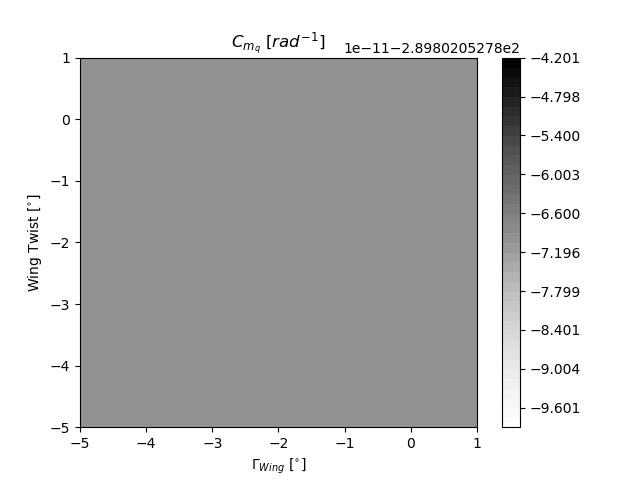
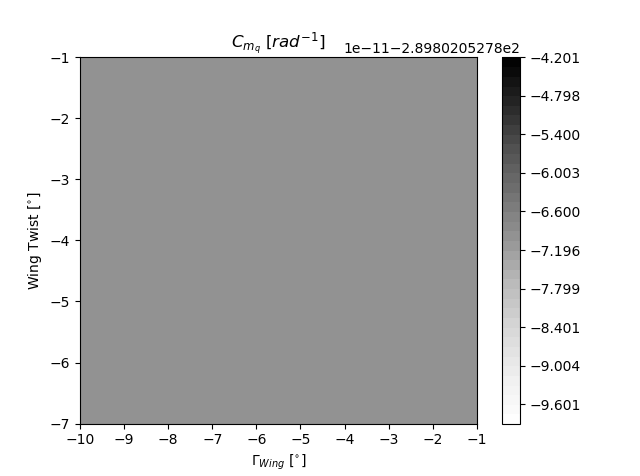
Append gitignore

diff --git a/A22DSE/Models/DATCOM/Current/sensitivity.py b/A22DSE/Models/DATCOM/Current/sensitivity.py
@@ -22,10 +22,10 @@ from A22DSE.Models.DATCOM.Current.datcomconvertermatlab import GetDerivatives
 parameter='C_D_0'
 steps=20
 
-dihedralrange = np.linspace(-5,1,steps)
-twistrange = np.linspace(-5,1,steps)
+dihedralrange = np.linspace(-10,-1,steps)
+twistrange = np.linspace(-7,-1,steps)
 
-parameters=np.array(['C_D_0','C_L_a','C_l_b','C_m_a','C_Y_b','C_n_b','C_L_adot',\
+parameters=np.array(['C_D_0','C_D_cruise','C_L_a','C_l_b','C_m_a','C_Y_b','C_n_b','C_L_adot',\
           'C_m_adot', 'C_l_p','C_Y_p','C_n_p','C_n_r','C_l_r','C_l_q','C_m_q'])
 def name(**variables):
     return [x for x in variables]
@@ -57,7 +57,7 @@ for parameter in parameters:
         for dh in dihedralrange:
             Conv.ParAnFP.dhwing=dh
             Conv.ParAnFP.twwing=tw
-            C_D_0,C_L_a,C_l_b,C_m_a,C_Y_b,C_n_b,C_L_adot,C_m_adot,\
+            C_D_0,C_D_cruise,C_L_a,C_l_b,C_m_a,C_Y_b,C_n_b,C_L_adot,C_m_adot,\
         C_l_p,C_Y_p,C_n_p,C_n_r,C_l_r,C_l_q,C_m_q=GetDerivatives(Conv,'hihg')
             
             subdata=np.append(subdata,vars()[parameter])

diff --git a/A22DSE/Models/DATCOM/Current/PlotDatcom3d_CERES.m b/A22DSE/Models/DATCOM/Current/PlotDatcom3d_CERES.m
@@ -49,10 +49,10 @@ SPANFI_E=0;SPANFO_E=0;CHRDFI_E=0;CHRDFO_E=0;DELTA_E=0;                %%
 %%% INPUT PARAMETERS BELOW %%%%%%%%%%%%%%%%%%%%%%%%%%%%%%%%%%%%%%%%%%%%%
 
 % SYNTHS parameters
-XW=76.0;
+XW=75.9;
 ZW=6.0;
 ALIW=0.0;
-XH=195.0;
+XH=194.9;
 ZH=25.2;
 ALIH=0.0;
 XV=171.6;
@@ -64,17 +64,17 @@ X=[0.,19.7,51.3,189.5];
 ZU=[0.,6.,6.,6.];
 ZL=[0.,-6.,-6.,5.6];
 R=[0.,10.4,10.4,0.3];
-S=[0.,195.9,195.9,0.3];
+S=[0.,195.7,195.7,0.3];
 
 % WING parameters
 CHRDTP_WG=9.6;
-SSPNE_WG=91.98;
-SSPN_WG=102.2;
+SSPNE_WG=91.89;
+SSPN_WG=102.1;
 CHRDR_WG=21.8;
 SAVSI_WG=28.7;
 CHSTAT_WG=0.0;
-TWISTA_WG=0.0;
-DHDADI_WG=0.0;
+TWISTA_WG=-0.0523598776;
+DHDADI_WG=-0.0523598776;
 TC_WG=0.12;
 
 % HORIZONTAL TAIL parameters
@@ -84,8 +84,8 @@ SSPN_HT=70.7;
 CHRDR_HT=11.5;
 SAVSI_HT=31.4;
 CHSTAT_HT=0.25;
-TWISTA_HT=0.0;
-DHDADI_HT=0.0;
+TWISTA_HT=1.0;
+DHDADI_HT=3.0;
 
 % VERTICAL TAIL parameters
 CHRDTP_VT=11.6;

diff --git a/A22DSE/Models/DATCOM/Current/datcomconvertermatlab.py b/A22DSE/Models/DATCOM/Current/datcomconvertermatlab.py
@@ -468,6 +468,7 @@ def GetDerivatives(Aircraft,speed): #'fast' or 'slow' speed input
                 
             
                 C_D_0=np.interp(0,C_Ls,C_Ds)
+                C_D_cruise=np.interp(0.7,C_Ls,C_Ds)
                 C_L_as=np.array([])
                 for i in range(6):
                     if not my_split(lines[j+8+i].strip())[7].isalpha():
@@ -536,5 +537,5 @@ def GetDerivatives(Aircraft,speed): #'fast' or 'slow' speed input
             k+=1
             if speed == 'slow' and k==2:
                 break
-    return np.append(C_D_0,np.array([C_L_a,C_l_b,C_m_a,C_Y_b,C_n_b,C_L_adot,C_m_adot, C_l_p,C_Y_p,C_n_p,C_n_r,C_l_r,C_l_q,C_m_q])*180/np.pi)
+    return np.append([C_D_0,C_D_cruise],np.array([C_L_a,C_l_b,C_m_a,C_Y_b,C_n_b,C_L_adot,C_m_adot, C_l_p,C_Y_p,C_n_p,C_n_r,C_l_r,C_l_q,C_m_q])*180/np.pi)
 

diff --git a/A22DSE/Models/DATCOM/Current/sensitivityhtail.py b/A22DSE/Models/DATCOM/Current/sensitivityhtail.py
@@ -24,7 +24,7 @@ steps=20
 
 dihedralrange = np.linspace(-3,3,steps)
 twistrange = np.linspace(-5,1,steps)
-parameters=np.array(['C_D_0','C_L_a','C_l_b','C_m_a','C_Y_b','C_n_b','C_L_adot',\
+parameters=np.array(['C_D_0','C_D_cruise','C_L_a','C_l_b','C_m_a','C_Y_b','C_n_b','C_L_adot',\
           'C_m_adot', 'C_l_p','C_Y_p','C_n_p','C_n_r','C_l_r','C_l_q','C_m_q'])
 
 
@@ -60,7 +60,7 @@ for parameter in parameters:
         for dh in dihedralrange:
             Conv.ParAnFP.dhht=dh
             Conv.ParAnFP.twht=tw
-            C_D_0,C_L_a,C_l_b,C_m_a,C_Y_b,C_n_b,C_L_adot,C_m_adot,\
+            C_D_0,C_D_cruise,C_L_a,C_l_b,C_m_a,C_Y_b,C_n_b,C_L_adot,C_m_adot,\
         C_l_p,C_Y_p,C_n_p,C_n_r,C_l_r,C_l_q,C_m_q=GetDerivatives(Conv,'hihg')
             subdata=np.append(subdata,vars()[parameter])
     

diff --git a/A22DSE/Parameters/Par_Class_All.py b/A22DSE/Parameters/Par_Class_All.py
@@ -20,9 +20,9 @@ class ParAnFPLst(object):
         self.e = None  #[-]                        DUMMY VALUE
         self.CD0 = None #[-]                       DUMMY VALUE
         self.S = None #[m_squared]               DUMMY VALUE
-        self.dhwing = 0. #[rad]
+        self.dhwing = -3./180*np.pi #[rad]
         self.dhht = 0. #[rad]
-        self.twwing = 0. #[rad]
+        self.twwing = -3./180*np.pi #[rad]
         self.twht = 0. #[rad]
         #cruise parameters
         self.TtoW = None #[-]                                                                        air to fuel ratio                           by POPS

diff --git a/A22DSE/Models/def_Collection_ClassII_Sizing.py b/A22DSE/Models/def_Collection_ClassII_Sizing.py
@@ -162,7 +162,7 @@ def ClassIISizing(Aircraft):
     z_cg = PositionsLG_Tri(Aircraft)
     
     #Stability derivatives DATCOM [/rad]    
-    anfp.C_D_0,anfp.C_L_a,anfp.C_l_b,anfp.C_m_a,anfp.C_Y_b,anfp.C_n_b,anfp.C_L_adot,anfp.C_m_adot,\
+    anfp.C_D_0,anfp.C_D_cruise,anfp.C_L_a,anfp.C_l_b,anfp.C_m_a,anfp.C_Y_b,anfp.C_n_b,anfp.C_L_adot,anfp.C_m_adot,\
         anfp.C_l_p,anfp.C_Y_p,anfp.C_n_p,anfp.C_n_r,anfp.C_l_r,anfp.C_l_q,anfp.C_m_q=GetDerivatives(Aircraft,'hihg')
         
     #fleetsize calculations
